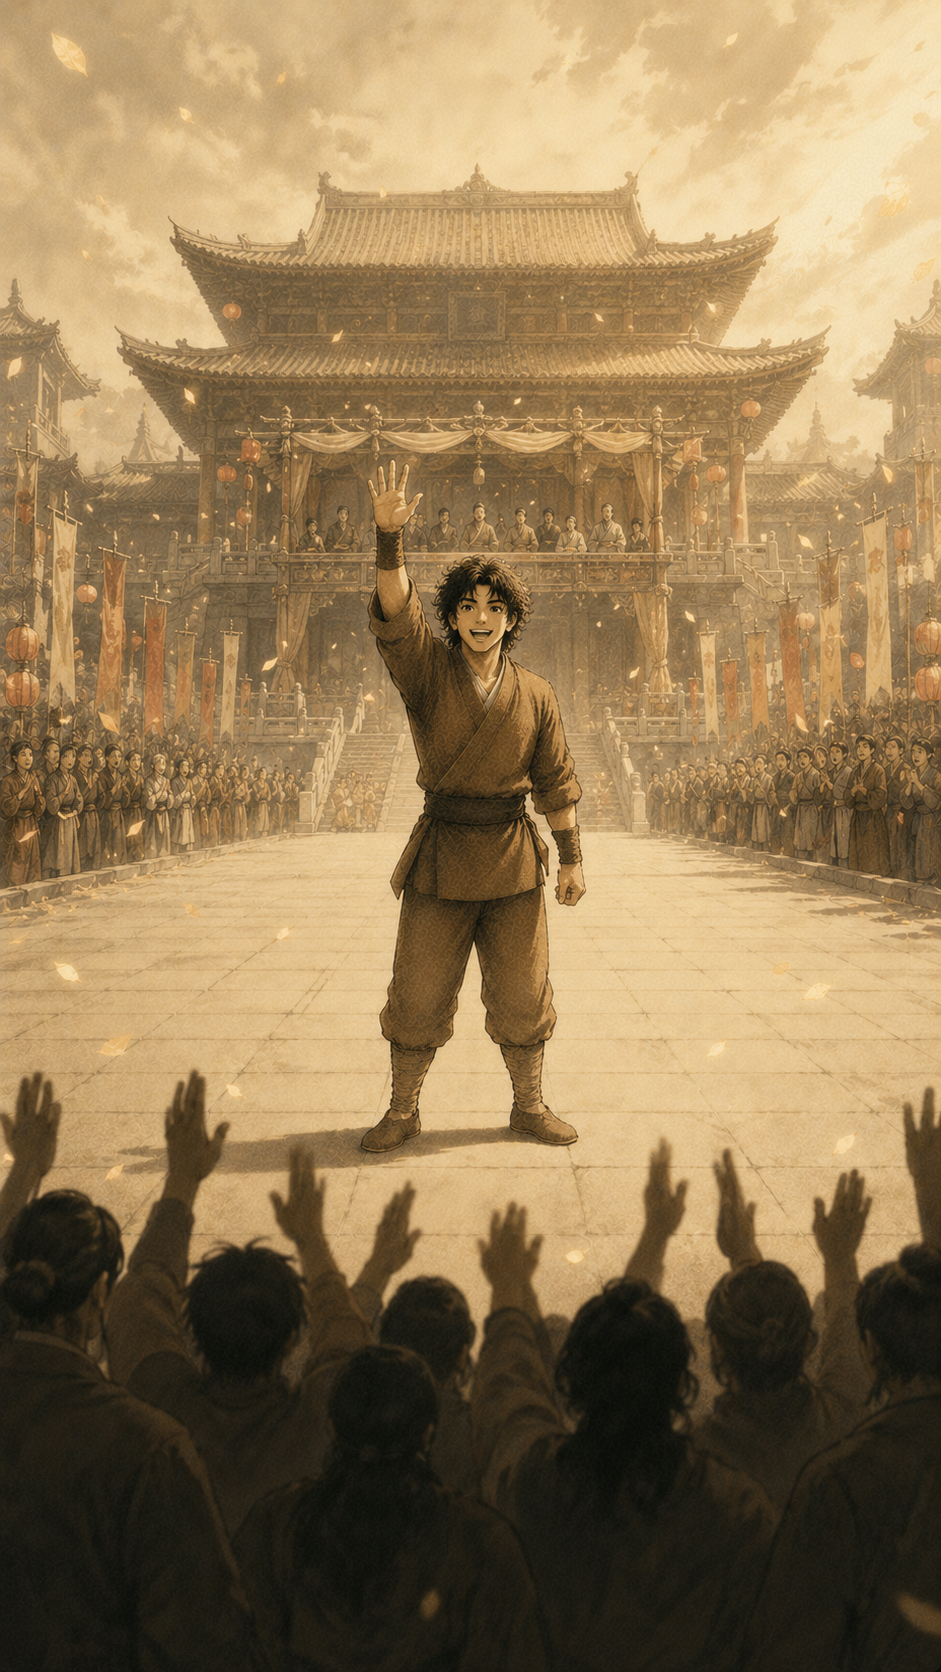
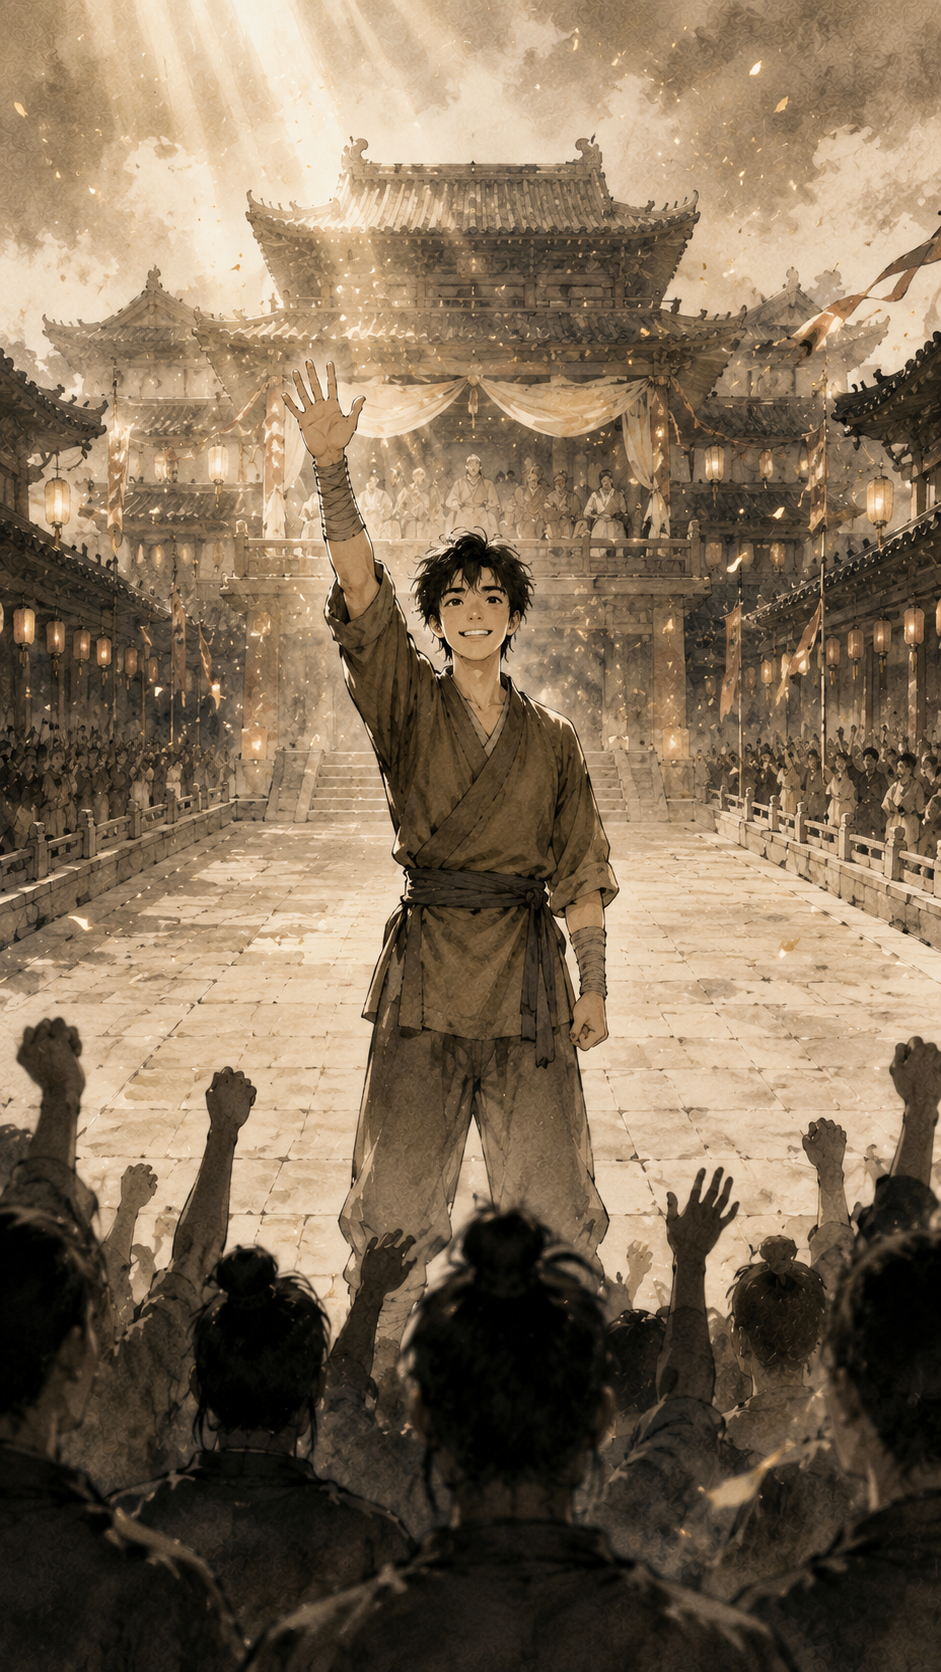
260624 :: 용봉지회 장원 컷씬 확정본 재작업(얼굴 통일)
장원(壯元) 컷씬 베이스·엔드·영상(webp)을 확정본 얼굴(약간 웨이브·우직+잘생긴
동양 미남)로 재작업·교체. 무기 없음. 정파 본산 전각·귀빈석·앞 관중 실루엣·
금빛 꽃잎 구도(v10) 유지. 네이티브 3초 webp(640px·12fps·1.8MB, Kling 워터마크
delogo 제거). media.ts 기존 연결 유지.

provisional — 추후 수정 가능("일단 이걸로", 사용자 2026-06-24) 문서 명시.
컷씬 프롬프트 외형도 확정본 기준으로 동기화.

Claude-Session: https://claude.ai/code/session_019qhCgnJo1uALTDYA7kb8Sk

diff --git a/assets/images/cutscenes/_프롬프트_장철.md b/assets/images/cutscenes/_프롬프트_장철.md
@@ -97,6 +97,9 @@
 
 # 컷씬 2. 용봉지회 장원(壯元) — `tournament_champion/`
 
+> ✅ **확정본 재작업(2026-06-24)** — 얼굴을 확정본(약간 웨이브·우직+잘생긴 동양 미남)으로 통일, 무기 없음, 베이스·엔드·webp 교체·media.ts 연결. 영상은 네이티브 3초 webp(640px·12fps·1.8MB).
+> ⚠ **provisional — 추후 수정 가능**: 현재 장원 컷은 "일단 이걸로" 채택. 마음에 안 들면 베이스부터 재생성 가능(사용자 2026-06-24).
+
 > 실패 이력(v1~v7, 2026-06-12): 전쟁터 오해석 → 공간감 없음 → 전신 원경(얼굴 죽음) → 배경 어수선 → 안개 속 부유 → v4 이미지 수정 경로·누대 기둥 프레이밍 시도 — 모두 미달.
 > v8(2026-06-12): 원형 비무대 + 부감 → **원형 단이 작고 부감 각도라 미달**(사용자 2026-06-14).
 > v9(2026-06-14): 직사각 대형 무대·정면 눈높이·관중 뒷모습 → 인물·구도 OK, **뒷배경(중경 관중)이 납작한 덩어리라 아쉬움**.
@@ -104,7 +107,7 @@
 
 ### 2-1(v10). 베이스 — ✅ **확정(2026-06-14)** — `tournament_champion/jang-cheol.png`
 
-정통 무협 수묵화 일러스트, 무협 웹툰풍의 수려한 인물 작화. 낡은 한지 질감 위에 세피아 먹빛 단색조, 엷은 금빛 포인트. 맑은 대낮, 거대한 정파 본산 앞뜰의 무림 비무대회 — **광활하게 넓고 긴 직사각형 비무대**(돌바닥) 한가운데에 우승자 소년이 **정면을 바라보며** 홀로 우뚝 서 있다. 건강한 동양인 피부에 어깨가 단단한, 훤칠하고 다부진 십대 중반 미소년 무인 — 한 팔을 머리 위로 높이 들어 손을 활짝 펴 흔들며 환하게 웃는다, 기쁨이 터져 나오는 얼굴. 단정한 검은 머리(약간의 웨이브) 아래 짙은 눈썹과 서글서글한 큰 눈, 크고 단단한 손, 소박하지만 깔끔하게 손질된 갈색 무명 무복, 손목에 감은 천. **시점은 관중석 속에서 무대를 바라보는 눈높이 — 부감(위에서 내려다봄) 절대 금지.** 화면 맨 아래 앞쪽에는 **관중의 뒷모습**(뒤통수와 어깨)이 어두운 실루엣으로 가로로 늘어서 두 팔 들어 무대를 향해 환호한다. 장철 뒤로는 **성처럼 웅장한 정파 본산의 다층 기와 전각**(처마가 층층이 뻗은 무림 명문의 본전)이 위로 솟아 배경을 채우고, 전각 중간의 **높은 누대에 차일을 친 귀빈석**이 있어 이 대회를 주최한 **무림 명숙·문주들이 의관을 갖추고 앉아 비무대를 내려다본다.** 전각 기둥과 처마에 색색의 잔치 깃발과 홍등이 줄지어 걸렸고, 무대 좌우로 일반 관중이 둘러섰다. 전각은 옅은 먹과 공기 원근으로 웅장하되 흐릿하게 — 장철이 화면의 주인공. 햇살이 사선으로 내리고 하늘 여백엔 옅은 운무, 금빛 꽃잎이 흩날린다. 장철은 화면 위쪽 3분의 2에 크게·얼굴은 정중앙 가로세로 3분의 1 안, 관중 실루엣은 맨 아래 띠(자막 자리와 겹쳐도 어두워 글이 읽힌다). **금지: 부감·대각선 내려보기 각도, 원형 무대, 병장기 난투·흙먼지·연기.** 세로 구도(9:16). 화면에 글자·낙관 없음.
+정통 무협 수묵화 일러스트, 무협 웹툰풍의 수려한 인물 작화. 낡은 한지 질감 위에 세피아 먹빛 단색조, 엷은 금빛 포인트. 맑은 대낮, 거대한 정파 본산 앞뜰의 무림 비무대회 — **광활하게 넓고 긴 직사각형 비무대**(돌바닥) 한가운데에 우승자 소년이 **정면을 바라보며** 홀로 우뚝 서 있다. 건강한 동양인 피부에 어깨가 단단한, 훤칠하고 다부진 십대 중반 소년 무인 — 한 팔을 머리 위로 높이 들어 손을 활짝 펴 흔들며 환하게 웃는다, 기쁨이 터져 나오는 얼굴. 단정한 검은 머리(약간의 웨이브, 과한 곱슬 X) 아래 짙은 눈썹과 맑고 선한 큰 눈, 우직하고 정직하되 수려하게 잘생긴 동양(한국) 미남, 크고 단단한 손, 소박하지만 깔끔하게 손질된 갈색 무명 무복, 손목에 감은 천. **시점은 관중석 속에서 무대를 바라보는 눈높이 — 부감(위에서 내려다봄) 절대 금지.** 화면 맨 아래 앞쪽에는 **관중의 뒷모습**(뒤통수와 어깨)이 어두운 실루엣으로 가로로 늘어서 두 팔 들어 무대를 향해 환호한다. 장철 뒤로는 **성처럼 웅장한 정파 본산의 다층 기와 전각**(처마가 층층이 뻗은 무림 명문의 본전)이 위로 솟아 배경을 채우고, 전각 중간의 **높은 누대에 차일을 친 귀빈석**이 있어 이 대회를 주최한 **무림 명숙·문주들이 의관을 갖추고 앉아 비무대를 내려다본다.** 전각 기둥과 처마에 색색의 잔치 깃발과 홍등이 줄지어 걸렸고, 무대 좌우로 일반 관중이 둘러섰다. 전각은 옅은 먹과 공기 원근으로 웅장하되 흐릿하게 — 장철이 화면의 주인공. 햇살이 사선으로 내리고 하늘 여백엔 옅은 운무, 금빛 꽃잎이 흩날린다. 장철은 화면 위쪽 3분의 2에 크게·얼굴은 정중앙 가로세로 3분의 1 안, 관중 실루엣은 맨 아래 띠(자막 자리와 겹쳐도 어두워 글이 읽힌다). **금지: 부감·대각선 내려보기 각도, 원형 무대, 병장기 난투·흙먼지·연기.** 세로 구도(9:16). 화면에 글자·낙관 없음.
 
 > 보강 경로(이미 v9 이미지가 있을 때 — 인물·앞 관중·구도 그대로, 뒷배경만 교체): 첨부 이미지의 인물·앞쪽 관중 뒷모습·정면 눈높이 구도·그림체는 그대로 두고, 무대 뒤 배경만 위 v10의 "정파 본산 전각 + 누각 귀빈석에서 내려다보는 주최 명숙" 묘사로 바꿔줘. 세피아 수묵·꽃잎·금빛 유지, 부감 금지.
 
